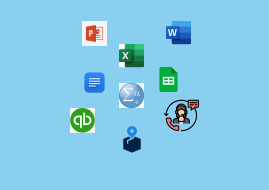
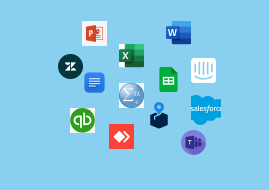
certifications

diff --git a/frontend/src/components/Certifications.css b/frontend/src/components/Certifications.css
@@ -1,0 +1,42 @@
+.Certifications{
+    width: 100vw;
+    height: 60vh;
+    display: flex;
+    flex-direction: column;
+    justify-content: center;
+    align-items: center;
+}
+.Certifications .certifications-container{
+    width: 80%;
+    height: 90%;
+    display: flex;
+    justify-content: space-around;
+    align-items: center;
+}
+.Certifications .certifications-container .certifications-images{
+    width: 50%;
+    height: 60%;
+    background-image: url(https://images.pexels.com/photos/7942430/pexels-photo-7942430.jpeg?auto=compress&cs=tinysrgb&w=1260&h=750&dpr=1);
+    background-position: center;
+    background-size: contain;
+    background-repeat: no-repeat;
+}
+.Certifications .certifications-container .certifications-content-container{
+    width: 50%;
+    height: 100%;
+    display: flex;
+    justify-content: center;
+    align-items: center;
+}
+.Certifications .certifications-container .certifications-content-container .certifications-content{
+    width: 90%;
+    height: 80%;
+    display: flex;
+    flex-direction: column;
+    justify-content: space-around;
+    align-items: center;
+    line-height: 30px;
+}
+.Certifications .certifications-container .certifications-content-container .certifications-content h2{
+    overflow: hidden;
+}

diff --git a/frontend/src/components/Certifications.js b/frontend/src/components/Certifications.js
@@ -1,0 +1,26 @@
+import React from 'react'
+import './Certifications.css'
+
+function Certifications() {
+  return (
+    <div className='Certifications'>
+        <h2>Certifications</h2>
+        <div className='certifications-container'>
+            <div className='certifications-images'></div>
+            <div className='certifications-content-container'>
+                <div className='certifications-content'>
+                    <ul>
+                        <li>Bachelor's Degree in Commerce (Accounting)</li>
+                        <li>Certificate in Statistical Package for Social Sciences (SPSS) – Institute for Advanced Technology, July 2022</li>
+                        <li>Certificate in Microsoft Office (Computer Packages) – Star College of Management Studies, May 2017</li>
+                        <li>Certificate in QuickBooks (Accounting software) – Institute for Advanced Technology, May 2022</li>
+                        <li>Certificate in Virtual Assistant – August 2024</li>
+                    </ul>
+                </div>
+            </div>
+        </div>
+    </div>
+  )
+}
+
+export default Certifications

diff --git a/frontend/src/pages/Home.js b/frontend/src/pages/Home.js
@@ -4,6 +4,7 @@ import About from '../components/About'
 import Expertise from '../components/Expertise'
 import Experiences from '../components/Experiences'
 import Skills from '../components/Skills'
+import Certifications from '../components/Certifications'
 
 function Home() {
   return (
@@ -14,6 +15,7 @@ function Home() {
             <Expertise/>
             <Experiences/>
             <Skills/>
+            <Certifications/>
         </div>
     </div>
   )

diff --git a/frontend/src/components/Skills.css b/frontend/src/components/Skills.css
@@ -16,7 +16,7 @@ body{
     overflow: hidden;
 }
 .Skills .skills-container{
-    width: 100%;
+    width: 80%;
     height: 80%;
     display: flex;
     justify-content: space-around;
